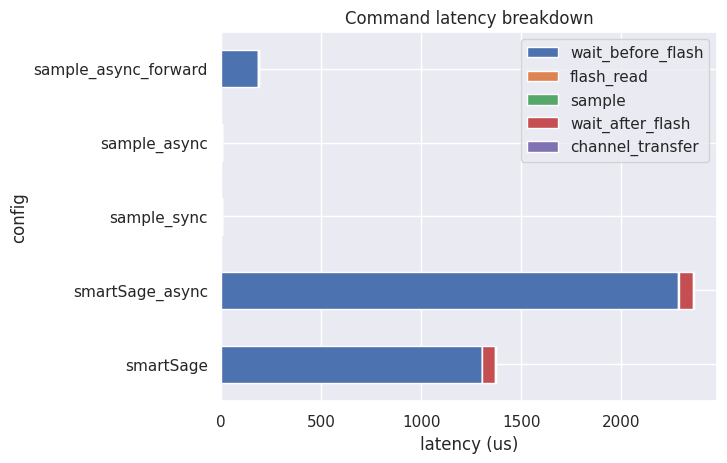
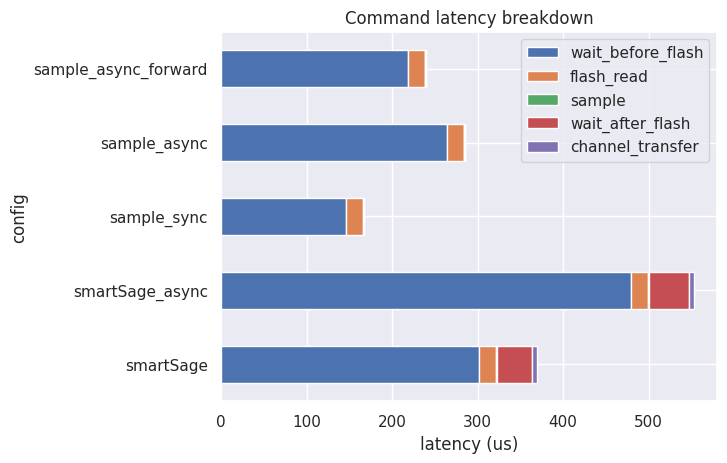
dump stat to csv

diff --git a/src/stat_plot.py b/src/stat_plot.py
@@ -1,6 +1,7 @@
 import matplotlib.pyplot as plt
 import seaborn as sns
 import pandas as pd
+import csv
 
 from sys_stat import Stat
 from util import *
@@ -80,6 +81,14 @@ def plot_chip_utilization(stat_dict):
     draw(sample=True)
     draw(sample=False, smooth=5)
 
+def dump_chip_utilization(stat_dict):
+    with open('chip_utilization.csv', 'w', newline='') as csvfile:
+        writer = csv.writer(csvfile)
+        writer.writerow(['config', 'time (us)', 'chip utilization'])
+        for config, stat in stat_dict.items():
+            for x, y in zip(stat.chip_busy_time, stat.chip_busy_n):
+                writer.writerow([config, x, y])
+
 def plot_channel_utilization(stat_dict):
     def draw(sample, smooth=None):
         plt.figure()
@@ -99,14 +108,17 @@ def plot_channel_utilization(stat_dict):
     draw(sample=True, smooth=20)
     draw(sample=False, smooth=1)
 
+def dump_channel_utilization(stat_dict):
+    with open('channel_utilization.csv', 'w', newline='') as csvfile:
+        writer = csv.writer(csvfile)
+        writer.writerow(['config', 'time (us)', 'channel utilization'])
+        for config, stat in stat_dict.items():
+            for x, y in zip(stat.channel_busy_time, stat.channel_busy_n):
+                writer.writerow([config, x, y])
 
-def plot_overall_latency_breakdown(stat_dict):
-    plt.figure()
-    plt.tight_layout()
+def overall_latency_pd(stat_dict):
     breakdown_list = []
     for label, stat in stat_dict.items():
-        if not 'sample' in label:
-            continue
         breakdown = {}
         breakdown['config'] = label
 
@@ -124,11 +136,20 @@ def plot_overall_latency_breakdown(stat_dict):
         
         breakdown_list.append(breakdown)
     df = pd.DataFrame(breakdown_list)
+    return df
+
+def plot_overall_latency_breakdown(stat_dict):
+    plt.figure()
+    plt.tight_layout()
+    df = overall_latency_pd(stat_dict)
     df.plot(x='config', kind='bar', stacked=True, rot=15, title='Latency breakdown', xlabel='config', ylabel='latency (us)')
     plt.savefig("overall_latency_breakdown.png", bbox_inches="tight")
 
-def plot_sample_latency_breakdown(stat_dict):
-    plt.figure()
+def dump_overall_latency_breakdown(stat_dict):
+    df = overall_latency_pd(stat_dict)
+    df.to_csv('overall_latency_breakdown.csv', index=False)
+
+def sample_latency_pd(stat_dict):
     breakdown_list = []
     configs = []
     for label, stat in stat_dict.items():
@@ -148,27 +169,48 @@ def plot_sample_latency_breakdown(stat_dict):
         transfer_time /= len(cmd_stats)
         breakdown = {'wait_before_flash': wait_time1, 'flash_read': read_time, 'sample': sample_time, \
            'wait_after_flash': wait_time2, 'channel_transfer': transfer_time}
+        breakdown['config'] = label
         breakdown_list.append(breakdown)
 
     df = pd.DataFrame(breakdown_list, index=configs)
+    return df
+
+def plot_sample_latency_breakdown(stat_dict):
+    plt.figure()
+    df = sample_latency_pd(stat_dict)
     df.plot.barh(stacked=True, xlabel='latency (us)', ylabel='config', title='Command latency breakdown')
     plt.savefig("command_latency_breakdown.png", bbox_inches="tight")
 
-def plot_speedup(stat_dict):
-    plt.figure()
-    plt.xticks(rotation=15)
-    plt.tight_layout()
-    plt.rcParams["xtick.labelsize"] = 10
+def dump_sample_latency_breakdown(stat_dict):
+    df = sample_latency_pd(stat_dict)
+    df.to_csv('command_latency_breakdown.csv', index=False)
+
+def speedup_dict(stat_dict):
     dic = {'config': [], 'latency': []}
     for label, stat in stat_dict.items():
         dic['config'].append(label)
         dic['latency'].append(stat.total_time)
     baseline = max(dic['latency'])
     dic['speedup'] = [baseline/lat for lat in dic['latency']]
+    return dic
+
+def plot_speedup(stat_dict):
+    plt.figure()
+    plt.xticks(rotation=15)
+    plt.tight_layout()
+    plt.rcParams["xtick.labelsize"] = 10
+    dic = speedup_dict(stat_dict)
     plot = sns.barplot(x='config', y='speedup', data=dic)
     plot.set(xlabel='config', ylabel='speedup')
     plt.savefig("speedup.png", bbox_inches="tight")
 
+def dump_speedup(stat_dict):
+    dic = speedup_dict(stat_dict)
+    with open('speedup.csv', 'w', newline='') as csvfile:
+        writer = csv.writer(csvfile)
+        writer.writerow(['config', 'latency', 'speedup'])
+        for config, latency, speedup in zip(dic['config'], dic['latency'], dic['speedup']):
+            writer.writerow([config, latency, speedup])
 
 def plot_hop_breakdown(stat_dict):
     plt.figure()
@@ -187,3 +229,23 @@ def plot_hop_breakdown(stat_dict):
     df = pd.DataFrame(breakdown_list, index=configs)
     df.plot.barh(stacked=True, xlabel='latency (us)', ylabel='config', title='Hop latency breakdown')
     plt.savefig("hop_latency_breakdown.png", bbox_inches="tight")
+
+
+def dump_hop_breakdown(stat_dict):
+    latency_dict = {}
+    col_names = ['config']
+    for label, stat in stat_dict.items():
+        latency_dict[label] = []
+        for hop in range(stat.num_hop+1):
+            latency_dict[label].append(stat.hop_start_time[hop])
+            latency_dict[label].append(stat.hop_end_time[hop])
+            
+        
+        if len(col_names) == 1:
+            for hop in range(stat.num_hop+1):
+                col_names += [f'hop_{hop}_start', f'hop_{hop}_end' ]
+    with open('hop_latency_breakdown.csv', 'w', newline='') as csvfile:
+        writer = csv.writer(csvfile)
+        writer.writerow(col_names)
+        for label, latency_list in latency_dict.items():
+            writer.writerow([label] + latency_list)

diff --git a/src/gnn.py b/src/gnn.py
@@ -190,7 +190,7 @@ def reset(gnn):
     gnn.reset_hop()
 
 if __name__ == "__main__":
-    ssd_config.read_conf_file('configs/ssd/ultra_low_latency_ssd.cfg')
+    ssd_config.read_conf_file('configs/ssd/traditional_ssd.cfg')
     ssd_config.dump()
     repeat = 1
     repeat_test = []
@@ -238,9 +238,14 @@ if __name__ == "__main__":
             # stat_dict[config['name']] = system.stat
             stat_dict[system_config.name] = system.stat
         print(stat_dict)
-        plot_sample_latency_breakdown(stat_dict)
-        plot_chip_utilization(stat_dict)
-        plot_channel_utilization(stat_dict)
-        plot_hop_breakdown(stat_dict)
-        plot_overall_latency_breakdown(stat_dict)
-        plot_speedup(stat_dict)
+        dump_chip_utilization(stat_dict)
+        dump_sample_latency_breakdown(stat_dict)
+        dump_overall_latency_breakdown(stat_dict)
+        dump_speedup(stat_dict)
+        dump_hop_breakdown(stat_dict)
+        # plot_sample_latency_breakdown(stat_dict)
+        # plot_chip_utilization(stat_dict)
+        # plot_channel_utilization(stat_dict)
+        # plot_hop_breakdown(stat_dict)
+        # plot_overall_latency_breakdown(stat_dict)
+        # plot_speedup(stat_dict)

diff --git a/src/util.py b/src/util.py
@@ -6,7 +6,7 @@ config_names = ['smartSage', 'smartSage_async', 'sample_sync', 'sample_async', '
 
 graph_params = {'feat_sz': 500, 'n_node': 1e6, 'feat_in_mem': False,'feat_together': True}
 
-app_params = {'batch': 512, 'sample_per_hop': [3, 3, 3], 'hidden_dim':128, 'output_dim':10}
+app_params = {'batch': 128, 'sample_per_hop': [3, 3, 3], 'hidden_dim':128, 'output_dim':10}
 
 def rand_chip():
     return random.randrange(ssd_config.num_chip)
